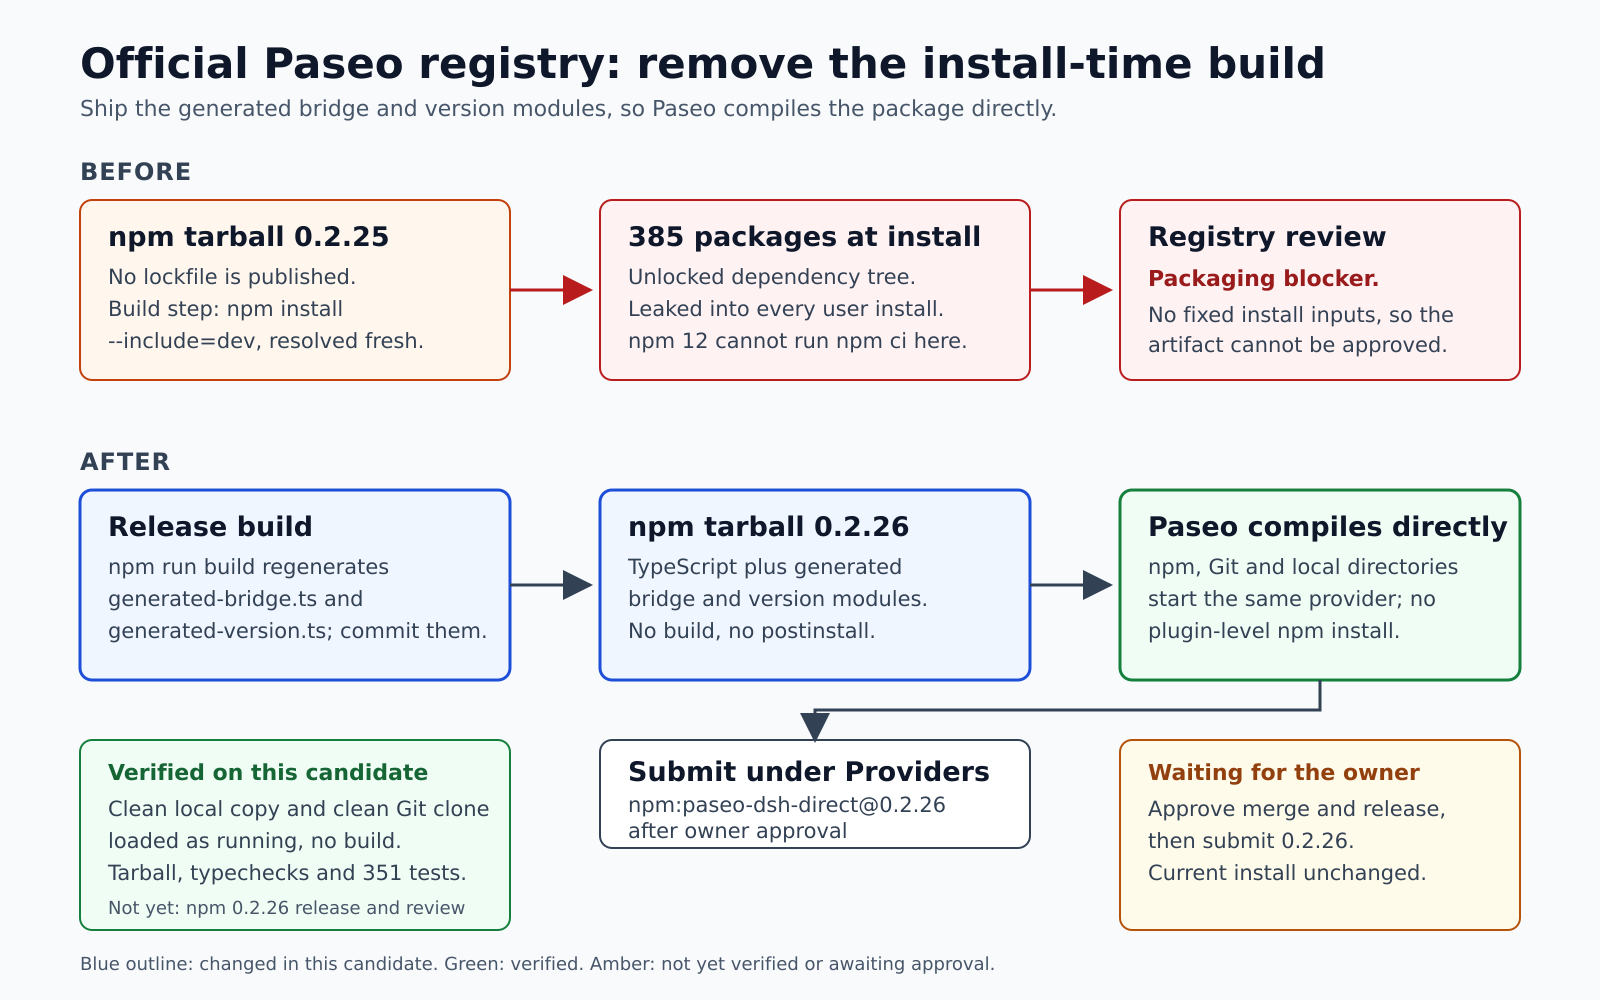
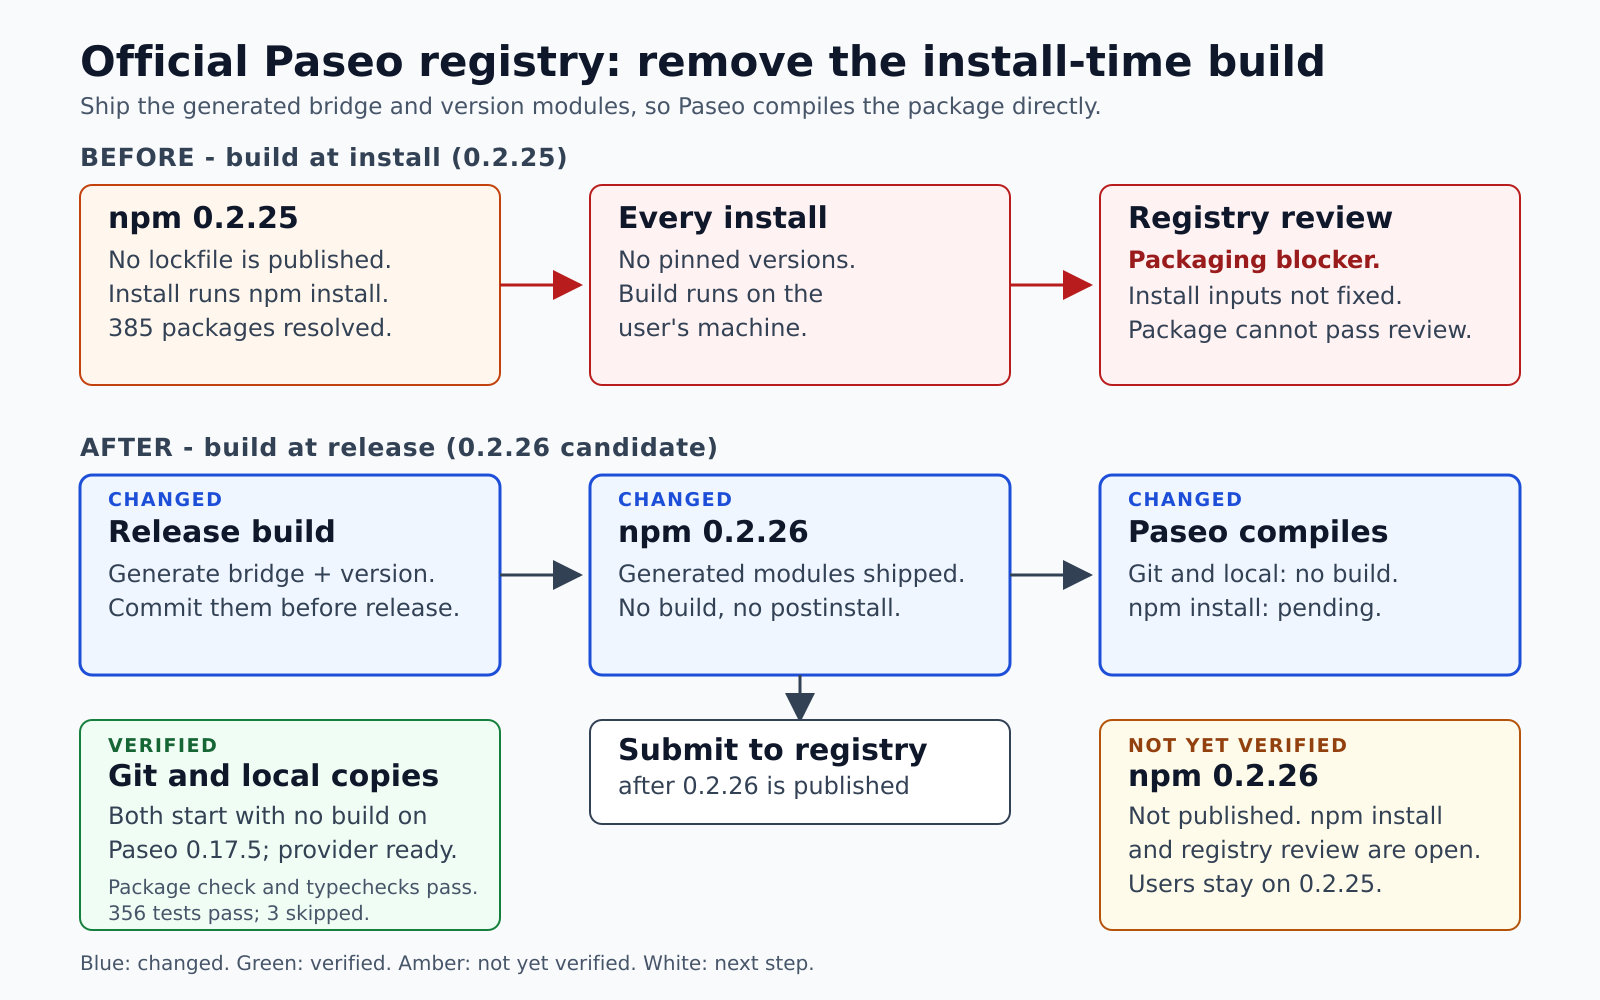
provider: guard against non-host imports
A bare import from a package Paseo does not supply would compile with
the repository's dev dependencies and then fail in a clean install.
List the host-provided packages and assert every shipped source only
names them, alongside the existing host-client check.

Update the local-update docs so a checkout installed without dev
dependencies is not told to run the build, and refresh the summary
diagram and test count.

Tested: module-boundary tests, 356 tests (353 pass, 3 environment-gated
skips), verify:generated, verify:package under npm 11.19.1 and 12.2.3,
and notes/docs gates.

diff --git a/server/module-boundary.test.ts b/server/module-boundary.test.ts
@@ -45,4 +45,31 @@ describe("plugin module boundary", () => {
     );
     assert.deepEqual(offenders.map((file) => path.relative(ROOT, file)), []);
   });
+
+  it("only names host-provided packages in shipped sources", () => {
+    // Paseo resolves these from its own installation. Any other bare import would
+    // need a dependency installed in the plugin directory, which is not shipped.
+    const hostModules = [
+      /^@getpaseo\/plugin(?:\/|$)/,
+      /^@tanstack\/react-query$/,
+      /^react$/,
+      /^react\/jsx-runtime$/,
+      /^react-native$/,
+      /^zod$/,
+    ];
+    const generated = new Set(["server/generated-bridge.ts", "server/generated-version.ts"]);
+    const offenders: string[] = [];
+    for (const file of shippedSources()) {
+      if (generated.has(path.relative(ROOT, file))) continue;
+      const source = readFileSync(file, "utf8");
+      for (const match of source.matchAll(/(?:from\s+|import\s*\(\s*|require\s*\(\s*|import\s+)["']([^"']+)["']/g)) {
+        const specifier = match[1];
+        if (specifier.startsWith(".") || specifier.startsWith("/") || specifier.startsWith("node:")) continue;
+        if (!hostModules.some((pattern) => pattern.test(specifier))) {
+          offenders.push(`${path.relative(ROOT, file)} -> ${specifier}`);
+        }
+      }
+    }
+    assert.deepEqual(offenders, []);
+  });
 });

diff --git a/CHANGELOG.md b/CHANGELOG.md
@@ -8,7 +8,7 @@
 - Add `npm run verify:package`, which packs the npm tarball, installs it with Paseo's npm acquisition options, and checks the installed manifest, generated bridge and version. CI and Publish run it before release.
 - Replace the retired paseo.cafe reference in the maintainer guide with the official paseo.sh/plugins registry, and update the packaging documentation. Describe the plugin as running a local DeepSeek Harness agent as a native Paseo provider.
 - Update the plugin to 0.2.26 and reload it; no configuration change is needed.
-- Verified with `npm ci`, the generated-file check, all four typecheck targets, 355 tests (352 pass, 3 environment-gated skips), notes and documentation gates, `verify:package` under npm 11 and npm 12, a clean Git clone and a clean local copy loaded as `running` on an isolated Paseo 0.17.5 daemon with the provider ready. Installing the exact published npm version remains for post-release verification.
+- Verified with `npm ci`, the generated-file check, all four typecheck targets, 356 tests (353 pass, 3 environment-gated skips), notes and documentation gates, `verify:package` under npm 11 and npm 12, a clean Git clone and a clean local copy loaded as `running` on an isolated Paseo 0.17.5 daemon with the provider ready. Installing the exact published npm version remains for post-release verification.
 
 ## 0.2.25
 

diff --git a/docs/en/installation.md b/docs/en/installation.md
@@ -81,8 +81,7 @@ In the **Subagents** section, select **Edit models** to open the model picker (a
 ## Update a local checkout
 
 ```bash
-npm run build
 paseo plugin reload paseo-dsh-direct
 ```
 
-For a Git- or npm-installed plugin, update with `paseo plugin update paseo-dsh-direct --yes`.
+The generated modules are already in the checkout. If you changed source that enters the bridge bundle, or the version, run `npm run build` first (after one `npm ci`); otherwise reload is enough. For a Git- or npm-installed plugin, update with `paseo plugin update paseo-dsh-direct --yes`.
